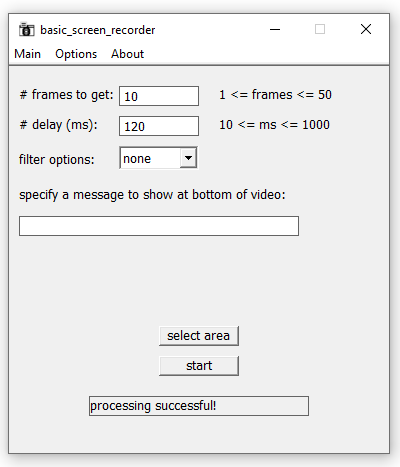
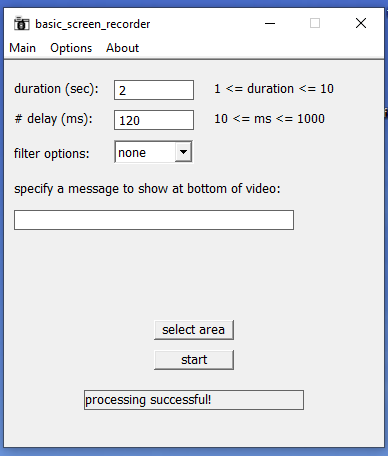
allow user to set duration in seconds to capture instead of setting num frames

Changed region(s): [[0.0, 0.0, 1.0, 1.0], [0.2165, 0.7061, 0.7732, 0.9211], [0.4948, 0.1842, 0.866, 0.2149]]

diff --git a/capture_gui.cpp b/capture_gui.cpp
@@ -404,7 +404,7 @@ void doScreenCapture(WindowInfo* args){
     
     PostMessage(mainWindow, ID_IN_PROGRESS, 0, 0);
     
-    int nFrames = args->numFrames;
+    int nFrames = (int)floor((args->duration * 1000) / args->timeDelay);
     int tDelay = args->timeDelay;
     
     std::string theDir = args->directory;
@@ -422,7 +422,7 @@ void doScreenCapture(WindowInfo* args){
 
 // do all the things in a separate thread (which wil launch 2 child threads of its own)
 void doEverything(){
-    int audioDuration = captureParams.numFrames * captureParams.timeDelay; // in ms
+    int audioDuration = captureParams.duration * 1000; // in ms
     int tDelay = captureParams.timeDelay;
     std::string dirName = captureParams.tempDirectory;
 
@@ -510,7 +510,10 @@ void doEverything(){
 
                     // TODO: cleanup. delete the images and wav file (or make this optional via the GUI?)
                     if (captureParams.cleanupFiles) {
-                        for (int i = 0; i < captureParams.numFrames; i++) {
+
+                        int numFrames = (int)floor((captureParams.duration*1000) / captureParams.timeDelay);
+
+                        for (int i = 0; i < numFrames; i++) {
                             // delete each file first
                             DeleteFileA((dirName + "/screen" + std::to_string(i) + ".bmp").c_str());
                         }
@@ -680,24 +683,24 @@ LRESULT CALLBACK WndProcMainPage(HWND hwnd, UINT msg, WPARAM wParam, LPARAM lPar
                 case ID_START_BUTTON:
                 {
                     // get the parameters 
-                    HWND frames = GetDlgItem(hwnd, ID_NUMFRAMES_TEXTBOX);
+                    HWND duration = GetDlgItem(hwnd, ID_DURATION_TEXTBOX);
                     HWND delay = GetDlgItem(hwnd, ID_DELAY_TEXTBOX);
                     
-                    wchar_t numFrames[3];
+                    wchar_t durationAmount[3];
                     wchar_t timeDelay[5];
                     
                     // because numFrames and timeDelay are initialized as arrays, we can use sizeof to get the number of bytes they occupy
-                    GetWindowText(frames, numFrames, sizeof(numFrames));
+                    GetWindowText(duration, durationAmount, sizeof(durationAmount));
                     GetWindowText(delay, timeDelay, sizeof(timeDelay));
                     
-                    int nFrames = _wtoi(numFrames);
+                    int dur = _wtoi(durationAmount);
                     int tDelay = _wtoi(timeDelay);
                     
                     // validate values!! 
-                    if(nFrames < 1){
-                        nFrames = 1;
-                    }else if(nFrames > 50){
-                        nFrames = 50;
+                    if(dur < 1){
+                        dur = 1;
+                    }else if(dur > 10){
+                        dur = 10;
                     }
                     
                     if(tDelay < 10){
@@ -742,7 +745,7 @@ LRESULT CALLBACK WndProcMainPage(HWND hwnd, UINT msg, WPARAM wParam, LPARAM lPar
                     }
 
                     captureParams.tempDirectory = dirName;
-                    captureParams.numFrames = nFrames;
+                    captureParams.duration = dur;
                     captureParams.timeDelay = tDelay;
                     captureParams.selectedFilter = currFilterIndex;
                     captureParams.directory = std::string("");
@@ -1113,9 +1116,9 @@ LRESULT CALLBACK WndProcAboutPage(HWND hwnd, UINT msg, WPARAM wParam, LPARAM lPa
 ***/
 void createMainScreen(HWND hwnd, HINSTANCE hInstance){
     // set num frames to collect
-    createLabel(L"# frames to get: ", 110, 20, 10, 20, hwnd, hInstance, (HMENU)ID_NUMFRAMES_LABEL, hFont);
-    createEditBox(L"10", 80, 20, 110, 20, hwnd, hInstance, (HMENU)ID_NUMFRAMES_TEXTBOX, hFont);
-    createLabel(L"1 <= frames <= 50", 130, 20, 210, 20, hwnd, hInstance, NULL, hFont);
+    createLabel(L"duration (sec): ", 140, 20, 10, 20, hwnd, hInstance, (HMENU)ID_DURATION_LABEL, hFont);
+    createEditBox(L"5", 80, 20, 110, 20, hwnd, hInstance, (HMENU)ID_DURATION_TEXTBOX, hFont);
+    createLabel(L"1 <= duration <= 10", 130, 20, 210, 20, hwnd, hInstance, NULL, hFont);
     
     // set gif frame delay time
     createLabel(L"# delay (ms): ", 100, 20, 10, 50, hwnd, hInstance, (HMENU)ID_DELAY_LABEL, hFont);

diff --git a/resources.h b/resources.h
@@ -7,9 +7,9 @@
 // not used anymore
 #define ID_TITLE_LABEL 99
 
-#define ID_NUMFRAMES_LABEL 100
-#define ID_NUMFRAMES_TEXTBOX 101
-#define ID_ADD_NUMFRAMES 102 
+#define ID_DURATION_LABEL 100
+#define ID_DURATION_TEXTBOX 101
+#define ID_ADD_DURATION 102 
 
 #define ID_DELAY_LABEL 103 
 #define ID_DELAY_TEXTBOX 104

diff --git a/readme.md b/readme.md
@@ -1,6 +1,8 @@
 # basic screen recorder for Windows    
     
-This is supposed to be a screen recording app for Windows. It uses code from my [gif-capturing app](https://github.com/syncopika/gifCatch_desktop-Windows-) and some [WASAPI sample code](https://github.com/microsoft/Windows-classic-samples/tree/main/Samples/Win7Samples/multimedia/audio/CaptureSharedTimerDriven) that Microsoft has kindly provided. It does screen capturing and audio recording based on the number of frames to capture set by the user and spits out an .mp4 video file. Right now it seems to work ok but please don't expect too much (still a work-in-progress as there's a lot to fix) :).    
+This is supposed to be a screen recording app for Windows. It uses code from my [gif-capturing app](https://github.com/syncopika/gifCatch_desktop-Windows-) and some [WASAPI sample code](https://github.com/microsoft/Windows-classic-samples/tree/main/Samples/Win7Samples/multimedia/audio/CaptureSharedTimerDriven) that Microsoft has kindly provided.    
+    
+It does screen capturing and audio recording based on the duration to capture set by the user and spits out an .mp4 video file. Right now it seems to work ok but please don't expect too much (still a work-in-progress as there's a lot to fix) :).    
     
 This project relies on `ffmpeg` to create the video file and expects it to be installed. Other than that, no other external dependencies! I used Visual Studio 2019 Community and Windows 10 to build this project.    
     
